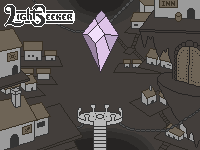
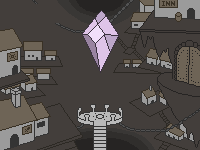
Añadido la palabra items en combatIntefacebackground

Changed region(s): [[0.0, 0.0267, 0.39, 0.1867]]

diff --git a/src/js/interface/seekerCombatHUD.js b/src/js/interface/seekerCombatHUD.js
@@ -53,11 +53,11 @@ var SeekerCombatHUD = function (game, parent, x, y, seeker, enemy) {
   var object1 = seeker.items[0];
   var object2 = seeker.items[1];
 
-  this.item1Button = this.add(new FramedButton(this, game, 3,139, seeker.items[0].key,'itemFrame', [{callback:function(){seeker.use(object1.name, enemy);}, context:this, arguments:[]}], 0x676767, 0xffffff, 0x000000, 0x222222, 0x676767));
+  this.item1Button = this.add(new FramedButton(this, game, 2,139, seeker.items[0].key,'itemFrame', [{callback:function(){seeker.use(object1.name, enemy);}, context:this, arguments:[]}], 0x676767, 0xffffff, 0x000000, 0x222222, 0x676767));
   object1.onUse.add(this.item1Button.deactivate, this.item1Button);
   object1.onUse.add(function() { this.item1Button._button.loadTexture('emptyItem');}, this);
 
-  this.item2Button = this.add(new FramedButton(this, game, 14,139, seeker.items[1].key,'itemFrame', [{callback:function(){seeker.use(object2.name, enemy);}, context:this, arguments:[]}], 0x676767, 0xffffff, 0x000000, 0x222222, 0x676767));
+  this.item2Button = this.add(new FramedButton(this, game, 13,139, seeker.items[1].key,'itemFrame', [{callback:function(){seeker.use(object2.name, enemy);}, context:this, arguments:[]}], 0x676767, 0xffffff, 0x000000, 0x222222, 0x676767));
   object2.onUse.add(this.item2Button.deactivate, this.item2Button);
   object2.onUse.add(function() { this.item2Button._button.loadTexture('emptyItem');}, this);
 

diff --git a/src/js/main.js b/src/js/main.js
@@ -127,7 +127,7 @@ var PreloaderScene = {
         this.game.load.image('pauseButton','assets/images/interface/pauseButton.png');
         this.game.load.spritesheet('shop','assets/images/interface/shop.png',51,64);
         this.game.load.spritesheet('shopFrame', 'assets/images/interface/shopFrame.png');
-        this.game.load.spritesheet('door', 'assets/images/interface/door.png',27,49);
+        this.game.load.spritesheet('door', 'assets/images/interface/door1.png',27,49);
         this.game.load.spritesheet('doorFrame', 'assets/images/interface/doorFrame.png');
         this.game.load.spritesheet('settings', 'assets/images/interface/settings.png',24,53);
         this.game.load.spritesheet('settingsFrame', 'assets/images/interface/settingsFrame.png');

diff --git a/src/js/scenes/mainmenu_scene.js b/src/js/scenes/mainmenu_scene.js
@@ -27,7 +27,7 @@ var MainMenuScene = {
     emitterCrystal.gravity = 0;
     emitterCrystal.flow(2000,100);
 
-
+    this.game.add.image(4,1,'title');
 
     
 
